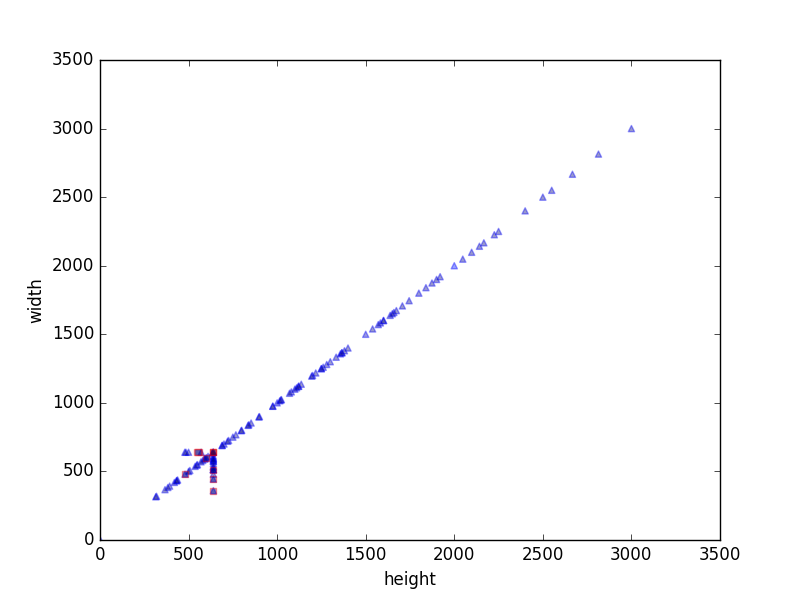
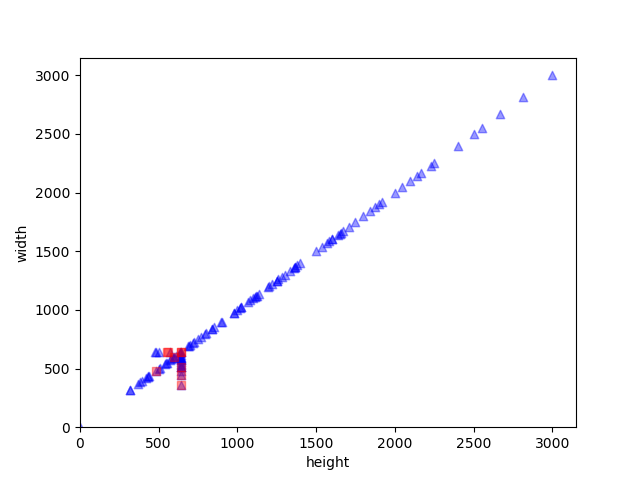
updates

diff --git a/stats.py b/stats.py
@@ -5,11 +5,12 @@ import numpy as np
 import matplotlib.pyplot as plt
 from helpers import *
 
-if len(sys.argv) < 4:
+if len(sys.argv) < 2:
     print "USAGE: python stats.py DATA_BASE_DIR"
     sys.exit(0)
 
-img_dir, meta_dir, train_dir, test_dir = get_directories(sys.argv[1])
+data_dir = sys.argv[1]
+img_dir, meta_dir, train_dir, test_dir = get_directories(data_dir)
 
 # Count files
 n_files = lambda x: len([f for f in os.listdir(x) if os.path.isfile(os.path.join(x, f))])
@@ -18,7 +19,7 @@ print '  Female: %d' % n_files(os.path.join(img_dir, 'female'))
 print '  Male: %d' % n_files(os.path.join(img_dir, 'male'))
 
 # Get data
-female_train, female_test, male_train, male_test = get_data()
+female_train, female_test, male_train, male_test = get_data(data_dir)
 female_all = female_train + female_test
 male_all = male_train + male_test
 print 'Metadata count: '
@@ -44,7 +45,7 @@ def plot_resolutions(train_files, test_files, name):
             heights.append(height)
             widths.append(width)
             counts.append(count)
-        plt.scatter(heights, widths, c=counts, color=color, marker=marker, alpha=.4)
+        plt.scatter(heights, widths, color=color, marker=marker, alpha=.4)
     add_points(train_files, 'b', '^')
     add_points(test_files, 'r', 's')
     x1,x2,y1,y2 = plt.axis()

diff --git a/models/__init__.py b/models/__init__.py
@@ -4,6 +4,7 @@ from vgg16_top import *
 from always_female import *
 from face_gender import *
 from ensemble import *
+from random import *
 
 def load_model(name, type, weights_dir, checkpoint=None):
     """Load a model
@@ -14,12 +15,14 @@ def load_model(name, type, weights_dir, checkpoint=None):
         weights_dir (str): Where to store weights
         checkpoint (str): (optional) Path to HDF5 checkpoint
     """
-    if type == 'naive_cnn':
+    if type == 'always_female':
+        model = AlwaysFemale(weights_dir, name)
+    elif type == 'random':
+        model = Random(weights_dir, name)
+    elif type == 'naive_cnn':
         model = NaiveCNN(weights_dir, name)
     elif type == 'vgg16':
         model = VGG16(weights_dir, name)
-    elif type == 'always_female':
-        model = AlwaysFemale(weights_dir, name)
     elif type == 'face_gender':
         model = FaceGender('./models/pretrained/haarcascade_frontalface_default.xml',
                            './models/pretrained/face_gender_cnn.h5', weights_dir, name)

diff --git a/results/results.md b/results/results.md
@@ -1,0 +1,103 @@
+# Random
+
+|        | pred. female | pred. male |
+| ------ | ------------ | ---------- |
+| female | 370          | 0          |
+| male   | 97           | 0          |
+
+- accuracy: 0.50
+- female precision: 0.50
+- male precision: 0.50
+- female recall: 0.50
+- male recall: 0.50
+
+# Always female
+
+|        | pred. female | pred. male |
+| ------ | ------------ | ---------- |
+| female | 370          | 0          |
+| male   | 97           | 0          |
+
+- accuracy: 0.79
+- female precision: 1.0
+- male precision: 0.0
+- female recall: 1.0
+- male recall: 0.0
+
+# Naive CNN
+
+|        | pred. female | pred. male |
+| ------ | ------------ | ---------- |
+| female | 260          | 110        |
+| male   | 55           | 39         |
+
+- accuracy: 0.64
+- female precision: 0.83
+- male precision: 0.26
+- female recall: 0.70
+- male recall: 0.41
+
+# VGG16
+
+|        | pred. female | pred. male |
+| ------ | ------------ | ---------- |
+| female | 314          | 56         |
+| male   | 32           | 65         |
+
+- accuracy: 0.81
+- female precision: 0.90
+- male precision: 0.54
+- female recall: 0.85
+- male recall: 0.67
+
+# Face detector + gender CNN
+
+|        | pred. female | pred. male |
+| ------ | ------------ | ---------- |
+| female | 88           | 24         |
+| male   | 6            | 15         |
+
+- accuracy: 0.77
+- female precision: 0.94
+- male precision: 0.38
+- female recall: 0.24
+- male recall: 0.15
+
+# Ensemble
+
+|        | pred. female | pred. male |
+| ------ | ------------ | ---------- |
+| female | 324          | 46         |
+| male   | 39           | 58         |
+
+- accuracy: 0.82
+- female precision: 0.88
+- male precision: 0.56
+- female recall: 0.88
+- male recall: 0.60
+
+# Naive CNN (amazon)
+
+|        | pred. female | pred. male |
+| ------ | ------------ | ---------- |
+| female | 297          | 73         |
+| male   | 70           | 24         |
+
+- accuracy: 0.69
+- female precision: 0.81
+- male precision: 0.25
+- female recall: 0.80
+- male recall: 0.26
+
+# VGG (amazon)
+
+|        | pred. female | pred. male |
+| ------ | ------------ | ---------- |
+| female | 269          | 101        |
+| male   | 45           | 52         |
+
+- accuracy: 0.69
+- female precision: 0.86
+- male precision: 0.34
+- female recall: 0.73
+- male recall: 0.54
